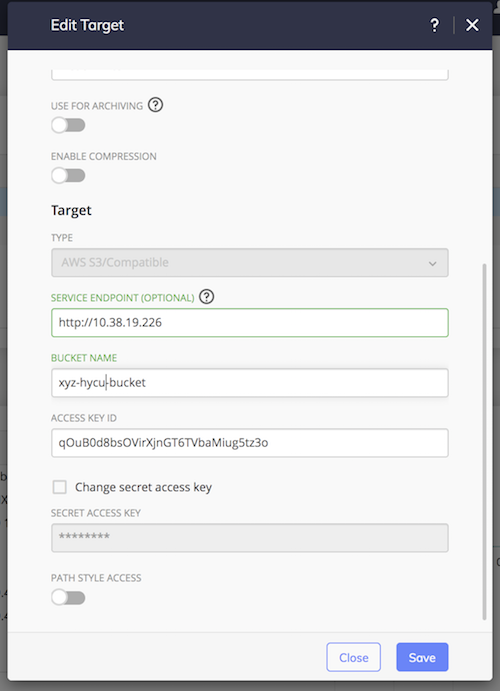
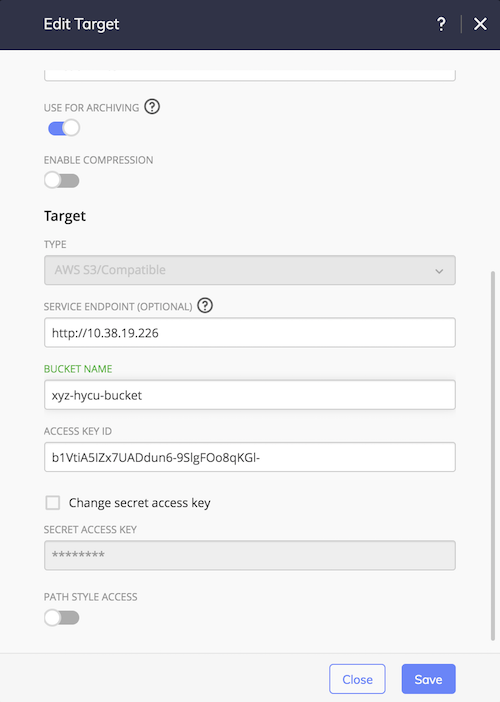
Minor HYCU lab updates to align screenshot to lab steps

diff --git a/mine/hycu/hycu/hycu.rst b/mine/hycu/hycu/hycu.rst
@@ -128,7 +128,7 @@ If the cluster on which the HYCU virtual appliance is being deployed is a Nutani
      .. figure:: images/6.png
 
      Deploying the HYCU dashboard to Prism Element will automatically restart the Prism Service on the cluster.
-     
+
      .. figure:: images/7.png
 
 #. From the **HYCU** sidebar, click :fa:`bars` **> Virtual Machines** and validate that your cluster's VMs are listed in the table.
@@ -448,7 +448,7 @@ In addition to restoring full VMs or disks, HYCU can also be used to directly re
 
    .. figure:: images/22.png
 
-#. Select **Restore to Virtual Machine** and click **Next**. 
+#. Select **Restore to Virtual Machine** and click **Next**.
 
 #. Fill out the following fields and click **Restore**:
 
@@ -517,7 +517,7 @@ Configure Nutanix Objects within HYCU
 
 #. Name the target "NTNX_Objects"
 
-#. Tick the option "Use for Archiving"
+#. Tick the option **Use for Archiving**
 
 #. Under Type, specify "AWS S3/Compatible"
 
@@ -635,7 +635,11 @@ Protecting Files is similar to adding a hypervisor source to HYCU, with the exce
 
 For AHV clusters with DHCP enabled, the additional HYCU instance can be provisioned automatically when adding the Files source. For ESXi or non-DHCP environments, the additional HYCU instance must be provisioned manually (similar to the original HYCU backup controller deployment). For complete details on manual deployment, see the `HYCU User Guide <https://support.hycu.com/hc/en-us/sections/115001018365-Product-documentation>`_.
 
-#. From the **HYCU** toolbar, click :fa:`cog` **> Nutanix Files**.
+#. From the **HYCU** toolbar, click :fa:`cog` **> Sources**.
+
+#. Click **Nutanix Files** at the top menu
+
+   ..figure:: images/26a.png
 
 #. Click **+ New** and fill out the following fields:
 
